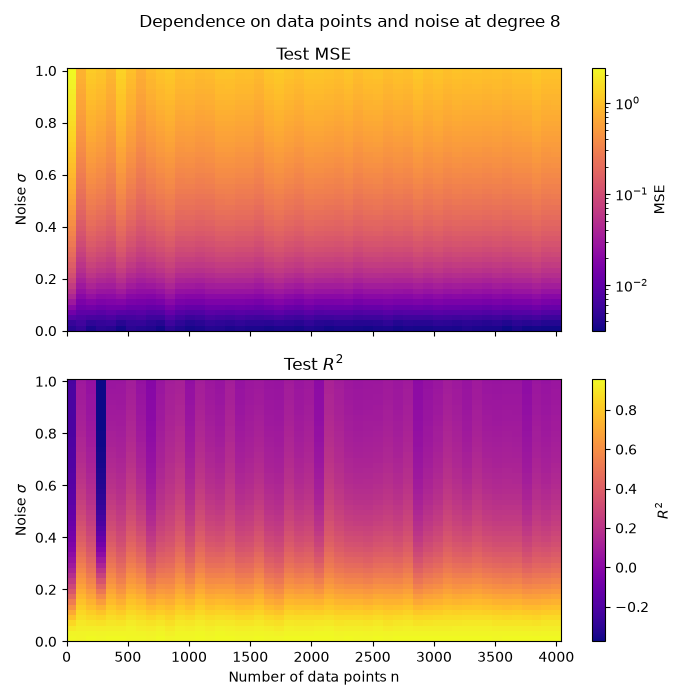
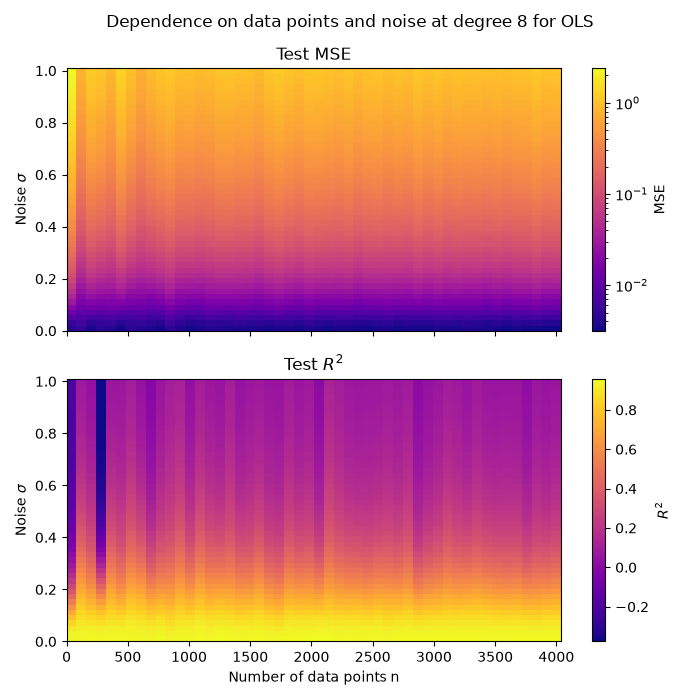
Change in cross val function

Changed region(s): [[0.15, 0.0, 0.84, 0.06]]

diff --git a/Project_1/Code/_Part_b.py b/Project_1/Code/_Part_b.py
@@ -13,18 +13,21 @@ from regression_methods import regression
 from plots import plt, plot_heatmap_grid, plot_theta
 
 """Analysis for different values of penalty parameter lambda. Let's Ridge's lambda do the model selection"""
-x,y = make_data()   #default arrays
+sigma = 0.1
+x,y = make_data(n=100, noise=sigma)   #default data
+
 degree = 15
 mse_train_R, mse_test_R, = [], []
 r2_train_R, r2_test_R = [], [] 
 thetas_R = []
 
-#Needed to calculate the degree of freedom, intercept = False to avoid 
+#Needed to calculate the degree of freedom, set intercept = False to avoid 0 column
 X = design_matrix(x, degree=degree, intercept=False)
 X_train, X_test, y_train, y_test = scaling(X, y, seed=2026, split_data=True)
 s = np.linalg.svd(X_train, compute_uv=False)
 dfs = []
 
+#Based on w35tuesday.ipynb to calculate degrees of freedom
 lambas = np.logspace(-8,4, 61)
 for lamba in lambas:
     mse_train, mse_test, r2_train, r2_test, thetas = regression(x,y, lamba, mindeg=degree, maxdeg=degree+1)
@@ -35,30 +38,36 @@ for lamba in lambas:
 
 theta_norm_R = [np.linalg.norm(theta) for theta in thetas_R]
 
+#Find best degree given lambda
 best_index = int(np.argmin(mse_test_R))
 best_lambda = lambas[best_index]
+best_mse = mse_test_R[best_index]
+print(f'Best MSE Ridge as function of lambda {best_mse:.4f}')
 
 fig, ax = plt.subplots(nrows=3, sharex=True, figsize=(7,7))
 fig.suptitle(fr'Analysis on how different $\lambda$s affect degree {degree} polynomial')
 ax[0].plot(lambas, mse_train_R, color="#DD55FF", label='Training data')
 ax[0].plot(lambas, mse_test_R, color="#0AC23E", label='Test data')
-ax[0].axvline(x=best_lambda, color="#696968", ls='--', label=rf'Best $\lambda$ = {best_lambda:.3f}, df = {dfs[best_index]:.2f}')
-ax[0].legend()
+ax[0].axvline(x=best_lambda, color="grey", ls='--', label=rf'Best $\lambda$ = {best_lambda:.3f}, df = {dfs[best_index]:.2f}')
+ax[0].axhline(sigma**2, color='black', ls=':', label=rf'Noise floor $\sigma^2$ = {sigma**2:.3g}')
+ax[0].legend(loc='lower right', bbox_to_anchor=(1.1, -0.15))
 ax[0].set_ylabel('MSE')
 ax[0].set_yscale('log')
 
 ax[1].plot(lambas, r2_train_R, color="#DD55FF")
 ax[1].plot(lambas, r2_test_R, color="#0AC23E")
-ax[1].axvline(x=best_lambda, color="#696968", ls='--')
+ax[1].axvline(x=best_lambda, color="grey", ls='--')
 
 ax[2].plot(lambas, theta_norm_R, color="#001E43", label=r'$\|\theta\|_2$')
 ax[2].set_xscale('log')
 ax[2].set_yscale('log')
 ax[2].set_ylabel(r'$\|\theta\|_2$')
 ax[2].legend()
+#plt.savefig(FIG_DIR / "Part_b_Params_vs_lambda.png")
 plt.show()
 
-plot_theta(thetas_R, lambas, xlabel=r'$\lambda$', title='Coefficients for $\\theta_j$ over $\\lambda$ at degree 15', xlog=True, log=False)
+plot_theta(thetas_R, lambas, xlabel=r'$\lambda$', title=rf'Ridge coefficients $\theta_j$ over $\lambda$ at degree {degree}', xlog=True, log=False)
+#plt.savefig(FIG_DIR / "Part_b_theta_vs_lambda.png")
 plt.show()
 
 """Shrinkage, through the SVD"""
@@ -74,6 +83,7 @@ ax.set_title('Shrinkage through SVD')
 ax.set_xlabel(r'Singular value $\sigma_i$')
 ax.set_ylabel(r'Shrinkage $\sigma_i^2$/($\sigma_i^2 + \lambda$)')
 ax.legend()
+#plt.savefig(FIG_DIR / "Part_b_SVD_shrinkage.png")
 plt.show()
 
 #For further analysis that depends on other parameters then lambda, we use the best lambda derived above.
@@ -85,14 +95,19 @@ mse_train, mse_test, r2_train, r2_test, thetas = regression(x,y,lamba=best_lambd
 
 best_index = np.argmin(mse_test)
 best_degree = degrees[best_index]
+best_mse = mse_test[best_index]
+print(f'Best MSE Ridge as function of polynomial {best_mse:.4f}')
+
+
 theta_norms_R = [np.linalg.norm(theta) for theta in thetas]
 
 fig, ax = plt.subplots(nrows=3, sharex=True, figsize=(7,7))
 fig.suptitle(fr'Parameters dependence on Polynomial degree for Ridge with $\lambda$ = {best_lambda:.3f}')
 ax[0].plot(degrees, mse_train, color='#8C564B', label='Training data')
 ax[0].plot(degrees, mse_test, color='#0AC23E', label='Test data')
-ax[0].axvline(x=best_degree, color='#696968', ls='--', label=rf'Best degree = {best_degree}')
-ax[0].legend()
+ax[0].axvline(x=best_degree, color='grey', ls='--', label=rf'Best degree = {best_degree}')
+ax[0].axhline(sigma**2, color='black', ls=':', label=rf'Noise floor $\sigma^2$ = {sigma**2:.3g}')
+ax[0].legend(loc='upper right', bbox_to_anchor=(1.05, 1.15))
 ax[0].set_yscale('log')
 ax[0].set_ylabel('MSE')
 
@@ -107,10 +122,12 @@ ax[2].set_ylabel(r'$\|\theta\|_2$')
 ax[2].set_xlabel('Polynomial Degree')
 ax[2].set_xticks(degrees)
 ax[2].legend()
-plt.show()
+#plt.savefig(FIG_DIR / "Part_b_Parms_vs_degree.png")
+#plt.show()
 
 plot_theta(thetas, degrees, title=r'Coefficients of $\theta_j$ for Ridge over polynomial degree')
-plt.show()
+#plt.savefig(FIG_DIR / "Part_b_theta_vs_degree.png")
+#plt.show()
 
 
 """Analysis of how different amounts of data points (n) and different noise (sigma) affect affect
@@ -129,8 +146,15 @@ for i, sigma in enumerate(sigmas):
         mse_test[i,j] = mse_te[0]
         r2_test[i,j] = r2_te[0]        
 
-plot_heatmap_grid(mse_test, ns, sigmas, rf'Test MSE with Ridge at degree {best_degree} for $\lambda$ = {best_lambda:.3f}', 'MSE', log=True)
-plot_heatmap_grid(r2_test, ns, sigmas, rf'Test R2 Score with Ridge at degree {best_degree} for $\lambda$ = {best_lambda:.3f}', 'R2', log=False)
+fig, axes = plt.subplots(2, 1, figsize=(7, 7), sharex=True)
+
+plot_heatmap_grid(mse_test, ns, sigmas, 'Test MSE', 'MSE', log=True, ax=axes[0])
+plot_heatmap_grid(r2_test, ns, sigmas, r'Test $R^2$', r'$R^2$', log=False, ax=axes[1])
+axes[0].set_xlabel('')  #they share x axis so xlabel on top plot is empty
+
+fig.suptitle(rf'Dependence on data points and noise at degree {best_degree} for Ridge with $\lambda$ = {best_lambda:.3f}')
+fig.tight_layout()
+#plt.savefig(FIG_DIR / "Part_b_heatmaps_MSE_R2.png")
 #plt.show()
 
 

diff --git a/Project_1/Code/_Part_d.py b/Project_1/Code/_Part_d.py
@@ -4,31 +4,26 @@ from parts a and c as a function of polynomial degree against the MSE from cross
 It also derives the plot for Ridge regression that shows different polynomial degrees are affected by penalty parameter lambda 
 
 x and y arrays were generated using make_data function from general_functions.py, 
-Test MSE for OLS was derived using regression function from regression_methods.py,
 Test MSE from bootstrap resampling was derived using bootstrap_resampling function from resampling_methods.py
 Test MSE and Ridge regression as a function of both polynomial degree and penalty parameter (lambda) was derived from cross_validation function from resampling.py
 """
 
-
 from general_functions import make_data, np, FIG_DIR
 from resampling_methods import bootstrap_resampling, cross_validation
-from regression_methods import regression
 from plots import plt
 
-"""Analysis of the MSE as a function of polynomial degree for OLS and Bootstrap, Cross-validation"""
+"""Analysis of the MSE as a function of polynomial degree for Bootstrap and Cross-validation"""
 mindegree, maxdegree = 1, 21
 degrees = np.arange(mindegree, maxdegree)
 x,y = make_data()   #default data
 
 mse_cv_5_OLS = cross_validation(x,y, model='OLS',k=5)
 mse_cv_10_OLS = cross_validation(x,y, model='OLS', k=10)
-_, mse_test_ols_compare, _, _, _ = regression(x,y, maxdeg=maxdegree)
 bootstrap_compare, *_ = bootstrap_resampling(x, y, maxdegree=maxdegree)
 
-#Compare bootstrap, OLS and CV
+#Compare bootstrap and CV
 fig, ax = plt.subplots(figsize=(8,4))
 ax.set_title('Mean squared error comparison different methods')
-ax.plot(degrees, mse_test_ols_compare, 'o-', color='#F433DA',label='OLS MSE')
 ax.plot(degrees, bootstrap_compare, 'o-',  color='#FF2B2B', label='Bootstrap')
 ax.plot(degrees, mse_cv_5_OLS, 's-', color="#0F2D9A",label='Cross value MSE kfold=5')
 ax.plot(degrees,mse_cv_10_OLS, 'd-', color="#FB7100", label='Cross value MSE kfold=10')
@@ -37,9 +32,16 @@ ax.set_ylabel('MSE')
 ax.set_xticks(degrees)
 ax.set_yscale('log')
 ax.legend()
-plt.savefig(fname="figs/Part_d_MSE_comparison.pdf")
+plt.savefig(FIG_DIR/'Part_d_MSE_comparison.pdf')
 plt.show()
 
+results = {'Bootstrap': bootstrap_compare, 'CV k=5': mse_cv_5_OLS, 'CV k=10': mse_cv_10_OLS}
+best_degrees = {}
+
+for method, meansq in results.items():
+    best_index = np.argmin(meansq)
+    best_degrees[method] = degrees[best_index]
+    print(f'{method:6s}: best degree = {degrees[best_index]} with MSE = {meansq[best_index]:4f} ')
 
 """"
 Analysis of Ridge Regression for Cross-validation method over different lambdas
@@ -48,10 +50,9 @@ Divided degrees into two for figure to be clearer and not so compact
 n = 100
 lambdas = np.logspace(-8,4,n)
 degrees = np.arange(1, 21)
-
-mse_ridge = {}
 mse_polynomials = np.zeros((len(lambdas), len(degrees)))
 spread_polynomials = np.zeros((len(lambdas), len(degrees)))
+
 
 for j, lmb in enumerate(lambdas):
     mse = cross_validation(x, y, model='Ridge', lamba=lmb, mindegree=mindegree, maxdegree=maxdegree)
@@ -63,13 +64,5 @@ for index_degree, deg in enumerate(degrees):
     best = np.argmin(mse_polynomials[:, index_degree])
     print(f"  degree = {deg:2d}:  best_lambda = {lambdas[best]:8.4g}"
           f"   CV-MSE = {mse_polynomials[best, index_degree]:.4f}")
-    ax.plot(lambdas, mse_polynomials[:, index_degree], label=f'deg={deg}')
 
-ax.set_xscale('log')
-ax.set_yscale('log')
-ax.set_xlabel(r'$\lambda$')
-ax.set_ylabel('MSE (CV)')
-ax.set_title('Ridge CV-MSE vs lambda for different polynomial degrees')
-ax.legend(ncol=2, fontsize=8)
-plt.savefig(fname="figs/Part_d_RidgeMSE_vsLambda.pdf")
 plt.show()

diff --git a/Project_1/Code/resampling_methods.py b/Project_1/Code/resampling_methods.py
@@ -52,7 +52,7 @@ def bootstrap_resampling(x,y, mindegree=1, maxdegree=21, n_bootstraps=100, seed=
     return error, bias, variance
 
 
-def cross_validation(x, y, model='ols', lamba=0.0, mindegree=1, maxdegree=21, k=5, max_iter=10000, seed=2026, ypred = False):
+def cross_validation(x, y, model='ols', lamba=0.0, mindegree=1, maxdegree=21, k=5, max_iter=10000, seed=2026, ypred = False, return_std=False):
     """
     Cross-validation resampling technique. Works for OLS, Ridge, Lasso
 
@@ -66,6 +66,7 @@ def cross_validation(x, y, model='ols', lamba=0.0, mindegree=1, maxdegree=21, k=
             k (int): number of folds
             max_iter (int): max iterations for Lasso
             seed (int): randomizer seed 
+            return_std (bool): if True it returns the std over the kfolds
 
         Returns:
             mse (list): mean squared error per polynomial degree
@@ -73,7 +74,7 @@ def cross_validation(x, y, model='ols', lamba=0.0, mindegree=1, maxdegree=21, k=
 
     """
     kFold = KFold(n_splits=k, shuffle=True, random_state=seed)
-    mse = []
+    mse, std = [], []
 
     x = x.reshape(-1, 1)     #reshape x into a 2 dim column vector
     y_pred = { }
@@ -92,16 +93,18 @@ def cross_validation(x, y, model='ols', lamba=0.0, mindegree=1, maxdegree=21, k=
         scores = -cross_val_score(pipe, x, y, cv=kFold,
                                      scoring='neg_mean_squared_error')
         mse.append(np.mean(scores))
+        std.append(np.std(scores))
 
         if ypred:
             #prediction of y, obtained by cross validation. use for visualisation purposes
             y_pred[deg] = cross_val_predict(pipe, x, y, cv=kFold)
-    
-    if ypred:
-        return mse, y_pred
-    else:
-        return mse
 
+    output = [mse]
+    if ypred:
+        output.append(y_pred)
+    if return_std:
+        output.append(std)
+    return output[0] if len(output) == 1 else tuple(output)
 
 def grid_search(x_train, x_test, y_train, k,  param_grid = {"ridge__alpha": np.logspace(-5, 3, 30)},
                   model='Ridge', lamba=0.0,

diff --git a/Project_1/Code/_Part_a.py b/Project_1/Code/_Part_a.py
@@ -22,6 +22,9 @@ mse_train, mse_test, r2_train, r2_test, thetas = regression(x,y, mindeg=mindegre
 theta_norm_per_deg = [np.linalg.norm(theta) for theta in thetas]
 best_index = np.argmin(mse_test)
 best_degree = degrees[best_index]
+best_mse = mse_test[best_index]
+
+print(f'Best MSE for as function of polynomial = {best_mse:.4f}', '\n')
 
 fig, ax = plt.subplots(nrows=3, sharex=True, figsize=(7,7))
 fig.suptitle('Parameters dependence on Polynomial degree for OLS')
@@ -45,12 +48,12 @@ ax[2].set_ylabel(r'$\|\theta\|_2$')
 ax[2].set_xlabel('Polynomial Degree')
 ax[2].legend()
 ax[2].set_xticks(degrees)
-plt.savefig(FIG_DIR / "Part_a_Paramets_over_polynomial.png")
-plt.show()
+#plt.savefig(FIG_DIR / "Part_a_Paramets_over_polynomial.png")
+#plt.show()
 
 plot_theta(thetas, degrees, title=r'Coefficients $\theta_j$ for OLS over polynomial degree')
 #plt.savefig(FIG_DIR / "Part_a_theta_coeff")
-plt.show()
+#plt.show()
 
 """Analysis of how different amounts of data points (n) and different noise (sigma) affect
 MSE and R2 score for the test data at the best degree"""
@@ -77,7 +80,7 @@ plot_heatmap_grid(mse_test, ns, sigmas, 'Test MSE', 'MSE', log=True, ax=axes[0])
 plot_heatmap_grid(r2_test, ns, sigmas, r'Test $R^2$', r'$R^2$', log=False, ax=axes[1])
 axes[0].set_xlabel('')  #they share x axis so xlabel on top plot is empty
 
-fig.suptitle(f'Dependence on data points and noise at degree {best_degree}')
+fig.suptitle(f'Dependence on data points and noise at degree {best_degree} for OLS')
 fig.tight_layout()
 #plt.savefig(FIG_DIR / "Part_a_heatmaps_MSE_R2.png")
-plt.show()
+#plt.show()

diff --git a/Project_1/Code/_Part_c.py b/Project_1/Code/_Part_c.py
@@ -35,12 +35,14 @@ error, bias, variance = np.asarray(bootstrap_resampling(x,y,mindegree=mindegree,
 
 best_index = np.argmin(error)
 best_degree = degrees[best_index]
+best_mse = error[best_index]
+print(f'Best mse for bootstrap {best_mse:.4f}')
 
-fig, ax = plt.subplots(figsize=(8,4))
+fig, ax = plt.subplots()
 ax.plot(degrees, error, 'o-', color='#FF2B2B', label='Test MSE Bootstrap')
 ax.plot(degrees, bias, 's-', color='#4E20A1', label=r'Bias$^2$ (+ $\sigma^2$) Bootstrap')
 ax.plot(degrees, variance, 'd-', color='#FFB107', label='Variance Bootstrap')
-ax.plot(degrees, mse_test_fig, 'o-', color='#0AC23E', label='Testing MSE OLS' )
+ax.plot(degrees, mse_test_fig, 'o-', color='#0AC23E', label='Test MSE OLS' )
 ax.axvline(x=best_degree, color="#696968", ls='--', label=rf'Best degree Bootstrap = {best_degree}')
 
 ax.set_yscale('log')
